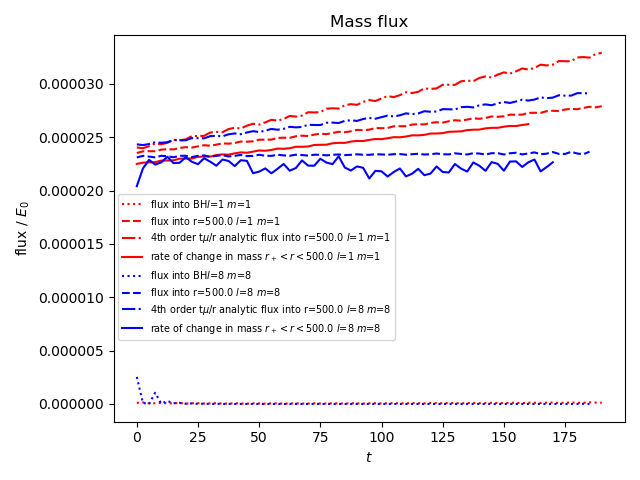
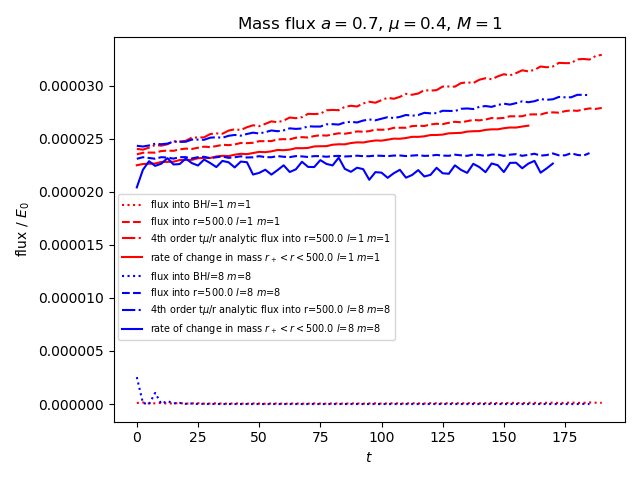
new plot

diff --git a/Analysis/scripts/plot_mass_flux_KS.py b/Analysis/scripts/plot_mass_flux_KS.py
@@ -116,7 +116,7 @@ r_min = 5
 r_max = 500
 average_time = False
 av_n = 1
-cumulative=True
+cumulative=False
 plot_mass=True
 
 def load_flux_data():
@@ -200,12 +200,12 @@ def plot_graph():
 	dd0 = data_dirs[0]
 	if cumulative:
 		ax1.set_ylabel("cumulative flux / $E_0$")
-		plt.title("Cumulative mass flux")
+		plt.title("Cumulative mass flux $a=0.7$, $\\mu=0.4$, $M=1$")
 		save_path = home_path + "plots/mass_flux_Kerr_Schild_cumulative_compare_lm_r_plus_to_500.png"
 		ax1.legend(loc='best', fontsize=7)
 	else:
 		ax1.set_ylabel("flux / $E_0$")
-		plt.title("Mass flux")
+		plt.title("Mass flux $a=0.7$, $\\mu=0.4$, $M=1$")
 		save_path = home_path + "plots/mass_flux_Kerr_Schild_compare_lm_r_plus_to_500.png"
 		ax1.legend(loc='lower left', bbox_to_anchor=(0.0,0.2), fontsize=7)
 	plt.tight_layout()
